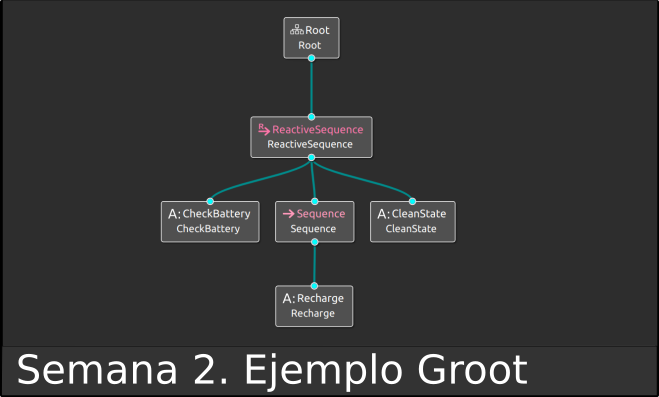
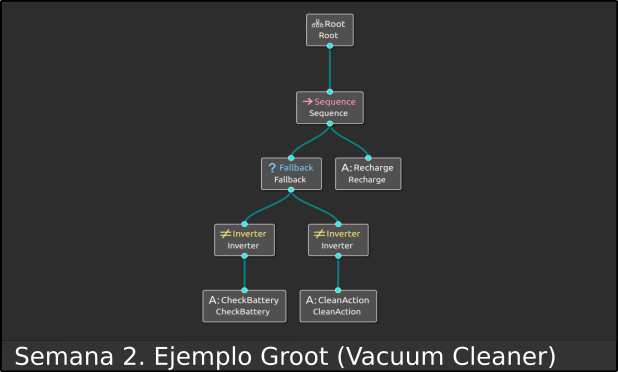
update semana2-2

Changed region(s): [[0.0, 0.0, 1.0, 1.0]]

diff --git a/docs/_posts/training-stage/2021-10-27-semana-2-2.md b/docs/_posts/training-stage/2021-10-27-semana-2-2.md
@@ -8,6 +8,8 @@ tags:
   - Behavior Trees
   - C++
   - Python
+youtubeId1: KrdO_pZ1mWQ
+youtubeId2: 11PdFWYF0gw
 ---
 
 Uno de los objetivos de la semana era profundizar más sobre Behavior Trees. Una de las subtareas era probar algún editor gráfico para realizar Árboles de Comportamiento de manera sencilla. Uno de los mejores es [**Groot**](https://github.com/BehaviorTree/Groot.git). Tiene soporte tanto para ROS como para ROS 2.
@@ -23,24 +25,46 @@ Una vez desarrollado el árbol, lo guardamos y automáticamente se nos genera un
 <root main_tree_to_execute="BehaviorTree">
     <!-- ////////// -->
     <BehaviorTree ID="BehaviorTree">
-        <ReactiveSequence>
-            <Action ID="CheckBattery"/>
-            <Sequence>
-                <Action ID="Recharge"/>
-            </Sequence>
-            <Action ID="CleanState"/>
-        </ReactiveSequence>
+        <Sequence>
+            <Fallback>
+                <Inverter>
+                    <Action ID="CheckBattery"/>
+                </Inverter>
+                <Inverter>
+                    <Action ID="CleanAction"/>
+                </Inverter>
+            </Fallback>
+            <Action ID="Recharge"/>
+        </Sequence>
     </BehaviorTree>
     <!-- ////////// -->
     <TreeNodesModel>
         <Action ID="CheckBattery"/>
-        <Action ID="CleanState"/>
+        <Action ID="CleanAction"/>
         <Action ID="Recharge"/>
     </TreeNodesModel>
     <!-- ////////// -->
 </root>
+
 ~~~
 
 Posteriormente desarrollé las acciones en C++.
+Simplemente nos creamos un fichero .cpp y .hpp por cada Acción, heredamos de la clase BT::ActionNodeBase y redefinimos los métodos virtuales de "tick()" y "halt()".
 
-Otro objetivo de la Semana 2 era investigar sobre Behavior Trees en Python para usarlos en ROS 2...
+El video de ejecución es el siguiente:
+{% include youtubePlayer.html id=page.youtubeId1 %}
+
+
+La arquitectura está dividida en dos partes:
+* Por un lado tenemos un monitor de batería que actúa de servidor y está disponible para gastar, alimentar y proporcionar el valor de la batería.
+* Por otro tenemos nuestro árbol de comportamiento donde cada nodo hoja posee un cliente para solicitar servicios a la batería (Consumir, Recargar, Obtener Valor)
+
+
+Otro objetivo de la Semana 2 era investigar sobre Behavior Trees en Python para usarlos en ROS 2.
+Para ello use la librería [**async_btree**](https://geronimo-iia.github.io/async-btree/). No encontré librerías para implementar Behavior Trees en Python para ROS2 de modo que esta librería era la mejor que se adaptaba. Personalmente, me pareció una librería más limitada que la que proporciona C++. Sin embargo, pude implementarme una aplicación **Bump And Go** de prueba usando el paquete Turtlesim de ROS 2.
+
+Este fue el resultado:
+
+{% include youtubePlayer.html id=page.youtubeId2 %}
+
+
